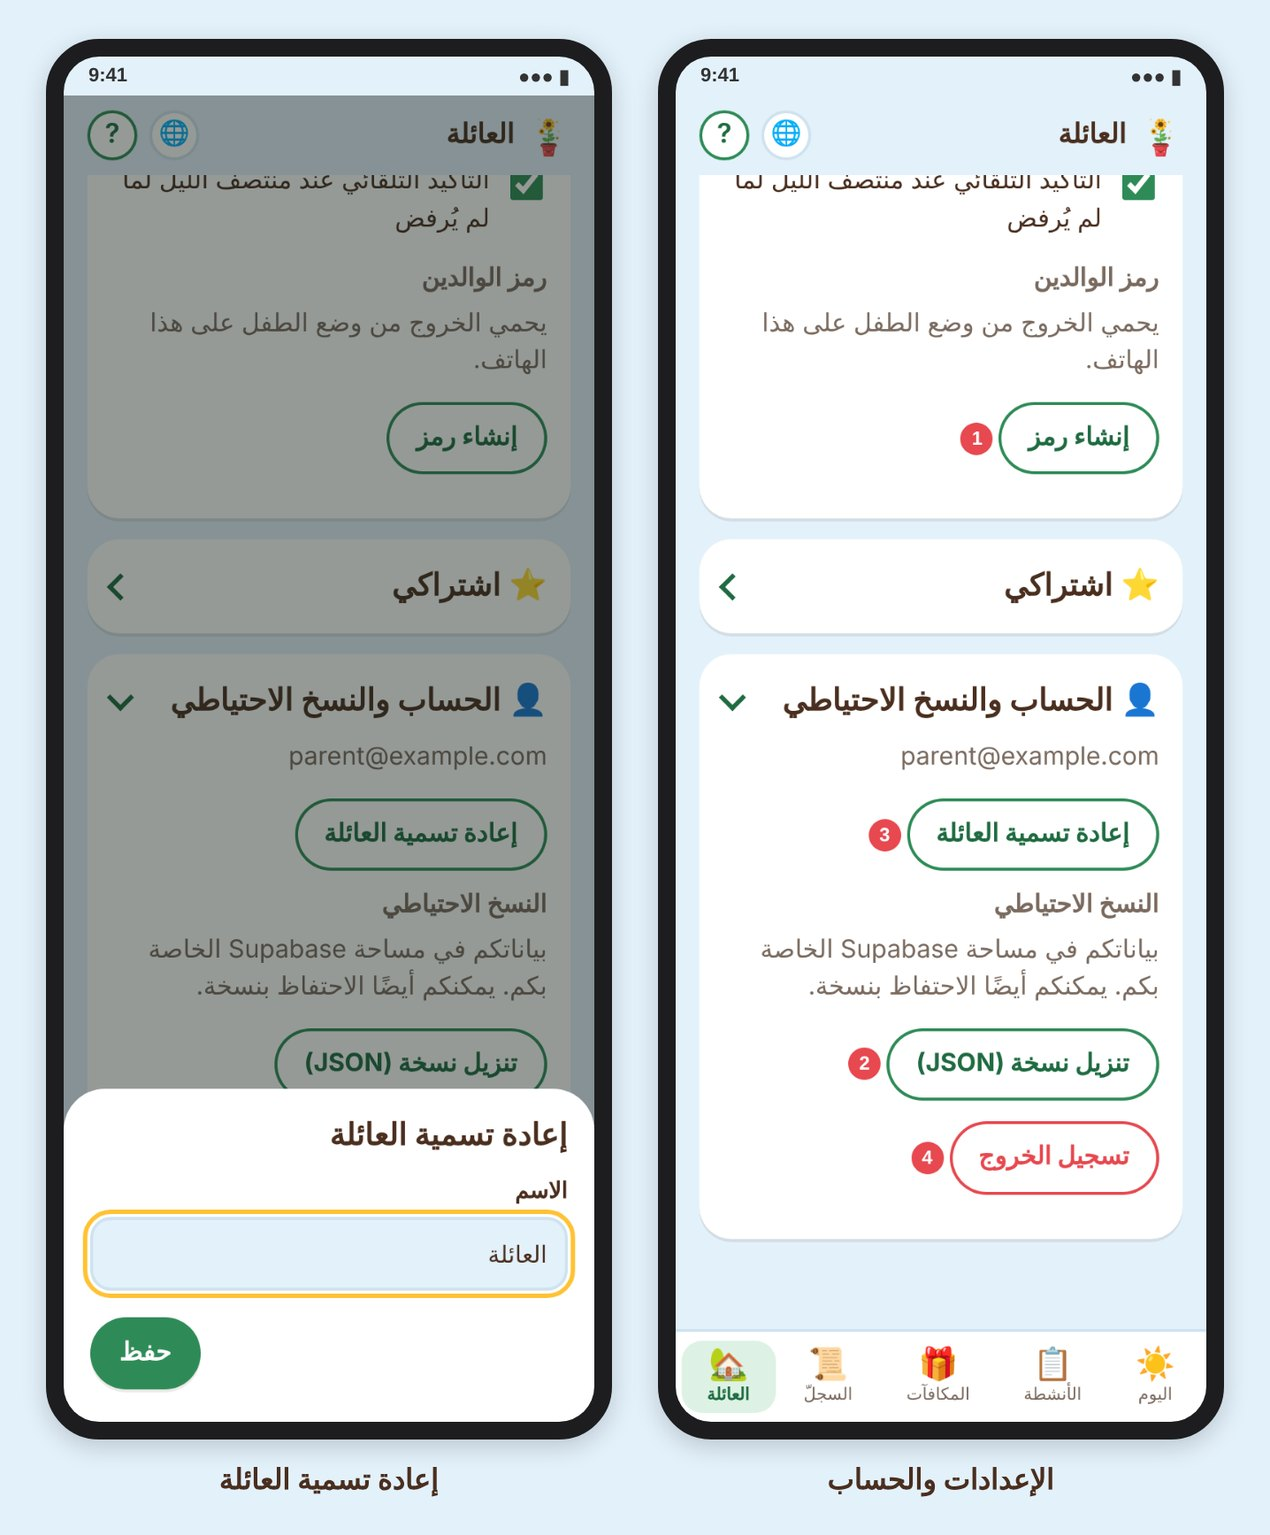
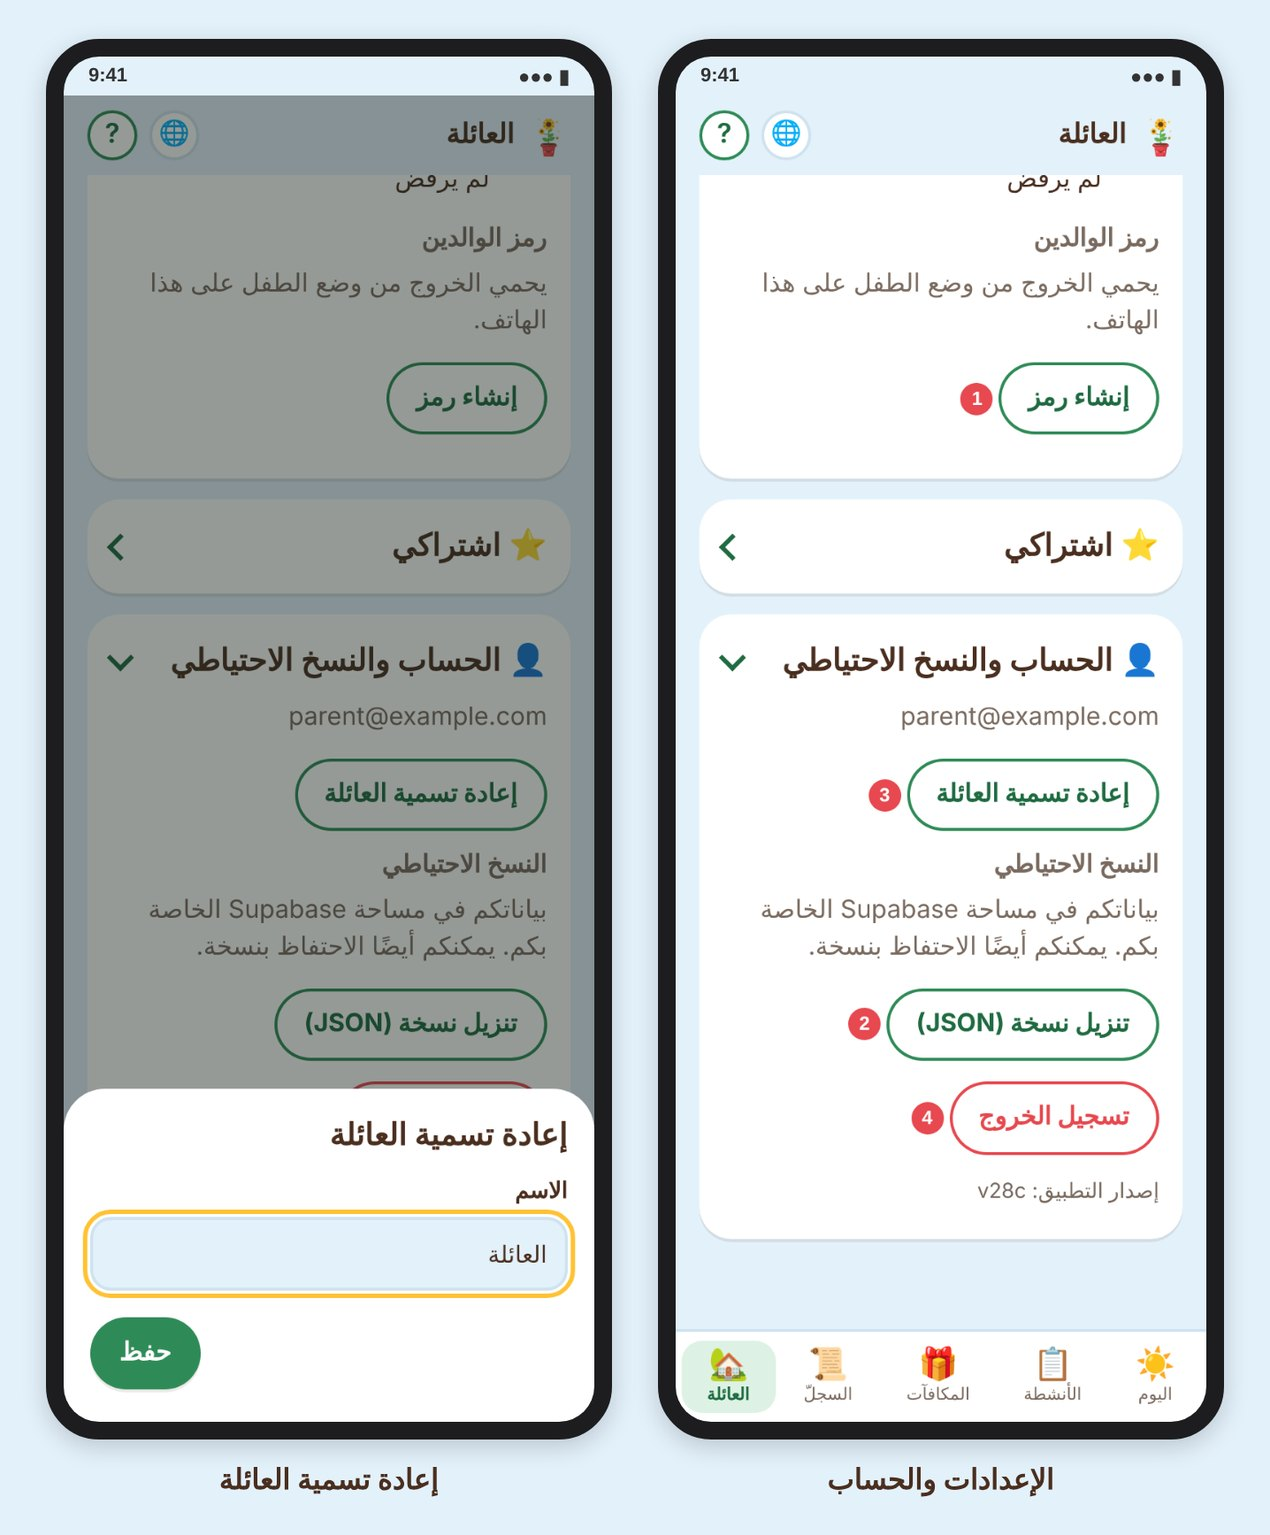
v28c : mise à jour automatique à l'ouverture de l'application
- Service worker : la page vient du réseau d'abord (cache en secours au-delà
  de 3 s ou hors ligne) ; installation sans le cache HTTP du navigateur ;
  répond à la demande de version.
- App : vérification d'une nouvelle version à l'ouverture et à chaque retour ;
  rechargement automatique une fois quand la nouvelle version prend la main,
  après la fermeture d'une fenêtre ouverte ; enregistrement avec
  updateViaCache « none ».
- Famille › Compte et sauvegarde : version de l'application affichée.
- Texte account.version (fr, ar, en) ; guides fr/ar/en partie 5 ; capture i4.
- CACHE soisfier-v28c.

Claude-Session: https://claude.ai/code/session_01N2PZnfgVf3ewf1NDq1vefG

diff --git a/app/sw.js b/app/sw.js
@@ -1,5 +1,5 @@
 /* SoisFier – service worker : hors ligne + notifications */
-const CACHE = "soisfier-v28b";
+const CACHE = "soisfier-v28c";
 // Vitrine provisoire : jamais mise en cache, toujours servie en direct (retours des bêta-testeurs sur la dernière version).
 const VITRINE = new URL("vitrine/", self.registration.scope).pathname;
 // Aperçu d'une branche (/preview/) : jamais servi par le service worker de la production (il a le sien).
@@ -11,7 +11,7 @@ const CDN = "https://cdn.jsdelivr.net/npm/@supabase/supabase-js@2.45.4/dist/umd/
 self.addEventListener("install", e => {
   e.waitUntil((async () => {
     const c = await caches.open(CACHE);
-    await c.addAll(CORE);
+    await c.addAll(CORE.map(u => new Request(u, { cache: "reload" })));   // v28c : jamais depuis le cache HTTP du navigateur (fichiers de la livraison précédente)
     // Seul le français (langue de secours) est préchargé ; les autres langues déjà utilisées sur l'appareil sont reprises, à jour.
     const used = new Set();
     for (const k of await caches.keys()) if (k !== CACHE) for (const r of await (await caches.open(k)).keys()) if (/\/i18n\/\w+\.json$/.test(new URL(r.url).pathname)) used.add(r.url);
@@ -37,6 +37,20 @@ self.addEventListener("fetch", e => {
   if (url.origin === self.location.origin && url.pathname.startsWith(APERCU)) return; // aperçu : hors service worker de la production
   const cacheable = url.origin === self.location.origin || /(^|\.)(jsdelivr\.net|googleapis\.com|gstatic\.com)$/.test(url.hostname);
   if (!cacheable) return;
+  // v28c : la page (navigation) vient du réseau d'abord, pour annoncer tout de suite une nouvelle version ; cache en secours (hors ligne ou réseau lent)
+  if (req.mode === "navigate" && url.origin === self.location.origin) {
+    e.respondWith((async () => {
+      const c = await caches.open(CACHE);
+      const net = fetch(req, { cache: "no-store" }).then(res => { if (res && res.ok) c.put("./index.html", res.clone()); return res; }).catch(() => null);
+      const late = new Promise(r => setTimeout(() => r(null), 3000));
+      const res = await Promise.race([net, late]);
+      if (res) return res;
+      const hit = (await c.match(req, { ignoreSearch: true })) || (await c.match("./index.html"));
+      if (hit) { e.waitUntil(net); return hit; }
+      return (await net) || Response.error();
+    })());
+    return;
+  }
   e.respondWith((async () => {
     const c = await caches.open(CACHE);
     const hit = await c.match(req, { ignoreSearch: req.mode === "navigate" });
@@ -48,6 +62,9 @@ self.addEventListener("fetch", e => {
     return Response.error();
   })());
 });
+
+// v28c : l'app demande la version qui la sert (affichée dans Famille › Compte et sauvegarde)
+self.addEventListener("message", e => { if (e.data === "version" && e.source) e.source.postMessage({ version: CACHE }); });
 
 self.addEventListener("push", e => {
   let d = {};

diff --git a/app/js/boot.js b/app/js/boot.js
@@ -22,8 +22,29 @@ A.savePass = async () => {
   closeSheet(); toast(t("auth.passwordChanged")); await enterParent();
 };
 
+// Mise à jour (v28c) : vérifiée à l'ouverture et à chaque retour dans l'app ; quand la nouvelle version prend la main,
+// l'app se recharge une fois (après la fermeture d'une fenêtre ouverte, pour ne rien perdre d'une saisie ou d'un défi chrono).
+function swSetup() {
+  if (!("serviceWorker" in navigator)) return;
+  const sw = navigator.serviceWorker, had = !!sw.controller;
+  let reloading = false;
+  const askVersion = () => { if (sw.controller) sw.controller.postMessage("version"); };
+  sw.addEventListener("message", e => { if (e.data && e.data.version) { S.version = e.data.version.replace(/^(apercu-)?soisfier-/, ""); if (S.screen === "parent" && S.tab === "family") render(); } });
+  sw.addEventListener("controllerchange", () => {
+    if (!had) return askVersion();   // première installation : rien à recharger
+    if (reloading) return; reloading = true;
+    const go = () => { if (dlg.open) return dlg.addEventListener("close", () => setTimeout(go, 50), { once: true }); location.reload(); };
+    go();
+  });
+  sw.register("sw.js", { updateViaCache: "none" }).then(reg => {
+    const check = () => reg.update().catch(() => {});
+    check();
+    document.addEventListener("visibilitychange", () => { if (document.visibilityState === "visible") check(); });
+  }).catch(() => {});
+  askVersion();
+}
 async function boot() {
-  if ("serviceWorker" in navigator) navigator.serviceWorker.register("sw.js").catch(() => {});
+  swSetup();
   await loadI18n();
   if (!sb) { S.screen = "error"; S.err = CFG_OK ? t("error.noService") : t("error.noConfig"); return render(); }
   if (store.get("childToken")) {

diff --git a/guide/index.html b/guide/index.html
@@ -908,7 +908,8 @@ tr:last-child td{border-bottom:0}
 <li><strong>Renommer la famille</strong> : change le nom affiché en haut de l'application, pour tous les membres.</li>
 <li><strong>Se déconnecter</strong> : ferme ton compte sur ce téléphone. Les données restent en ligne ; il suffit de se reconnecter avec son e-mail et son mot de passe.</li>
 </ol>
-<p>Le code parent est dans la section <strong>Réglages</strong> ; la copie, le nom de la famille et la déconnexion dans <strong>Compte et sauvegarde</strong>, où l'adresse e-mail du compte est rappelée.</p></section>
+<p>Le code parent est dans la section <strong>Réglages</strong> ; la copie, le nom de la famille et la déconnexion dans <strong>Compte et sauvegarde</strong>, où l'adresse e-mail du compte est rappelée.</p>
+<p>L'application se met à jour toute seule : à chaque ouverture, elle vérifie s'il existe une nouvelle version et, si oui, se recharge une fois, en une seconde environ (après la fermeture d'une fenêtre en cours de saisie). La version installée est indiquée en bas de la section <strong>Compte et sauvegarde</strong>.</p></section>
 <section class="part" id="p6"><h2><span class="num">6</span> Vacances et absences</h2>
 <p>La section <strong>Vacances et absences</strong> de la page <strong>Famille</strong> regroupe les deux façons de gérer une période à part : le <strong>mode vacances</strong> (Premium) et la <strong>pause</strong> (gratuite). Une seule liste montre, dans l'ordre des dates, les vacances 🏖 et les pauses ⏸ en cours et à venir.</p>
 <h3 id="p6-pourquoi">Pause ou mode vacances ?</h3>

diff --git a/guide/ar/index.html b/guide/ar/index.html
@@ -746,6 +746,7 @@ tr:last-child td{border-bottom:0}
 <li><strong>تسجيل الخروج</strong>: يغلق حسابكم على هذا الهاتف. تبقى البيانات على الإنترنت؛ ويكفي تسجيل الدخول من جديد بالبريد الإلكتروني وكلمة المرور.</li>
 </ol>
 <p>رمز الوالدين في قسم <strong>الإعدادات</strong>؛ والنسخة واسم العائلة وتسجيل الخروج في <strong>الحساب والنسخ الاحتياطي</strong>، حيث يُذكَّر أيضًا بالبريد الإلكتروني للحساب.</p>
+<p>يتحدّث التطبيق من تلقاء نفسه: عند كل فتح، يتحقّق من وجود إصدار جديد، وإن وُجد يُعيد التحميل مرة واحدة في ثانية تقريبًا (بعد إغلاق أي نافذة قيد التعبئة). يظهر الإصدار المثبّت أسفل قسم <strong>الحساب والنسخ الاحتياطي</strong>.</p>
 </section>
 
 <section class="part" id="p6"><h2><span class="num">6</span> العطلات والغيابات</h2>

diff --git a/app/js/parent.js b/app/js/parent.js
@@ -138,7 +138,8 @@ function pFamily() {
     + (P ? fsec("plan", "⭐ " + t("premium.myPlan"), planSection()) : "")
     + fsec("account", "👤 " + t("family.account"), `<p class="muted">${esc(S.session?.user.email || "")}</p>${installBtn() || P ? `<div class="actions">${installBtn()}${P ? `<button class="btn ghost" data-act="renameFamily">${t("account.rename")}</button>` : ""}</div>` : ""}
       <h3 class="grp">${t("backup.title")}</h3><p class="muted">${t("backup.help")}</p><div class="actions"><button class="btn ghost" data-act="exportData">${t("backup.btn")}</button></div>
-      <div class="actions"><button class="btn danger ghost" data-act="logout">${t("btn.logout")}</button></div>`);
+      <div class="actions"><button class="btn danger ghost" data-act="logout">${t("btn.logout")}</button></div>
+      ${S.version ? `<p class="muted small app-version">${t("account.version", { v: esc(S.version) })}</p>` : ""}`);
 }
 // Malus prédéfinis de la famille (v28) : se préparent ici, se cassent depuis l'onglet Historique
 function malusSection() {

diff --git a/guide/en/index.html b/guide/en/index.html
@@ -746,6 +746,7 @@ tr:last-child td{border-bottom:0}
 <li><strong>Sign out</strong>: signs your account out on this phone. The data stays online; just sign in again with your e-mail and password.</li>
 </ol>
 <p>The parent code is in the <strong>Settings</strong> section; the copy, the family name and signing out are in <strong>Account and backup</strong>, which also shows the account's e-mail.</p>
+<p>The app updates itself: each time it opens, it checks for a new version and, if there is one, reloads once, in about a second (after any window being filled in is closed). The installed version is shown at the bottom of the <strong>Account and backup</strong> section.</p>
 </section>
 
 <section class="part" id="p6"><h2><span class="num">6</span> Holidays and breaks</h2>

diff --git a/tools/guide/scenes.py b/tools/guide/scenes.py
@@ -322,7 +322,7 @@ async def main(only=None):
             await s.compose("i3", [(a, C("i3", 0)), (b, C("i3", 1))])
         if await scene("i4"):
             p = await s.page(h=900)
-            await s.act(p, "store.set('famOpen', { kids: false, vac: false, settings: true, account: true }); A.tab({ dataset: { tab: 'family' } }); scrollTo(0, $('[data-act=setPin]').getBoundingClientRect().top + scrollY - 110);")
+            await s.act(p, "S.version = 'v28c'; store.set('famOpen', { kids: false, vac: false, settings: true, account: true }); A.tab({ dataset: { tab: 'family' } }); scrollTo(0, $('[data-act=setPin]').getBoundingClientRect().top + scrollY - 110);")
             a = await s.shot(p, "i4a", [("button[data-act=setPin]", 1), ("button[data-act=exportData]", 2), ("button[data-act=renameFamily]", 3), ("button[data-act=logout]", 4, 0)])
             await s.act(p, "A.renameFamily();")
             b = await s.shot(p, "i4b")
